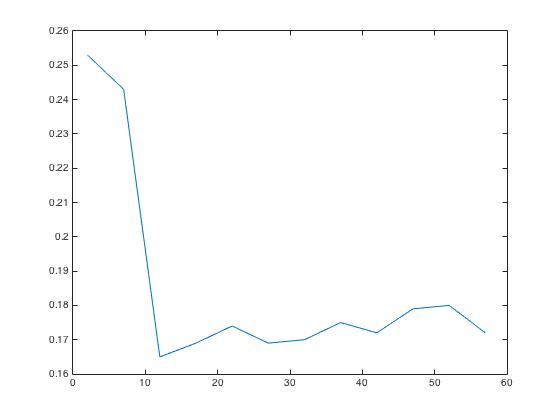
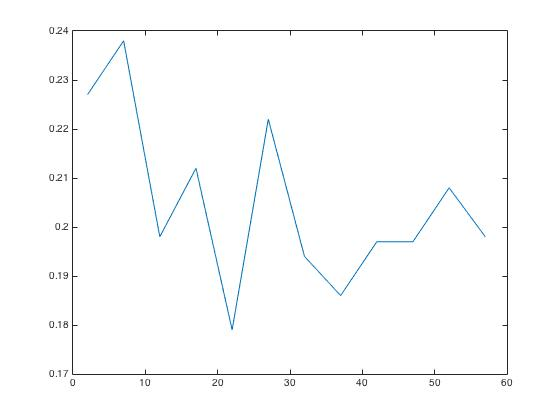
new push

diff --git a/HW3/problem2.m b/HW3/problem2.m
@@ -21,7 +21,7 @@ Ytest(~Ytest) = -1;
 
 Ftrain = 0;
 F = 0;
-m = 1:1:40;                 %number of iterations
+m = 1:2:100;                 %number of iterations
 m=m';
 idx = 1;
 
@@ -53,16 +53,16 @@ for i=1:size(m,1)
         residual = bsxfun(@minus,Yreal,Ftrain);
         residualTest = bsxfun(@minus, YrealTest, F);
     end
-%        testError(idx,:) = sum(residualTest);
-%        trainError(idx,:) = sum(residual);
+       testError(idx,:) = norm(residualTest);
+       trainError(idx,:) = norm(residual);
      
-    residualTest_sign = sign(residualTest);
-    misPredict = bsxfun (@ne, residualTest_sign, Ytest);
-    testError(idx,:) = sum(misPredict);
-
-    residual_sign = sign(residual);
-    misPredictTrain = bsxfun (@ne, residual_sign, Y);
-    trainError(idx,:) = sum(misPredictTrain);
+%     residualTest_sign = sign(residualTest);
+%     misPredict = bsxfun (@ne, residualTest_sign, Ytest);
+%     testError(idx,:) = sum(misPredict);
+% 
+%     residual_sign = sign(residual);
+%     misPredictTrain = bsxfun (@ne, residual_sign, Y);
+%     trainError(idx,:) = sum(misPredictTrain);
     
     idx = idx +1;
     display(m(i,1));

diff --git a/HW3/lec16.tex b/HW3/lec16.tex
@@ -83,7 +83,7 @@ The code for this problem is attached in $Appendix-A$.The figures below shows th
 \begin{figure}[H]
 \centering
 \includegraphics[width=120mm]{problem1_1.jpg}
-\caption{test error for upto 40 iterations.I can see a dip at 11th iteration. The testing error and then fluctuates alone the similiar domain.To understand why, I plotted training error to see the convergence.}
+\caption{test error for upto 200 iterations.I can see a dip at about 30th iteration. The testing error and then fluctuates alone the similiar domain.To understand why, I plotted training error to see the convergence.}
 \end{figure}
 
 \begin{figure}[H]

diff --git a/HW3/problem1_3.m b/HW3/problem1_3.m
@@ -22,12 +22,15 @@ W(1:n,1) = 1/n;         %initial weights
 m = 2:5:60;             %number of iterations
 m=m';
 
-F = 0;
+
 idx = 1;
 testError(1:size(m,1),1) = 0;  
 
 for i=1:size(m,1)
-    for t=0:3
+    F = 0;
+    n = size(Dataset,1);    %Wataset size
+    W(1:n,1) = 1/n;         %initial weights
+    for t=0:10
 
         %train the decision tree, my weak learner, depth 3
         tree3 = fitctree(X,Y,'Weights',W', 'MaxNumSplits',m(i,:));
